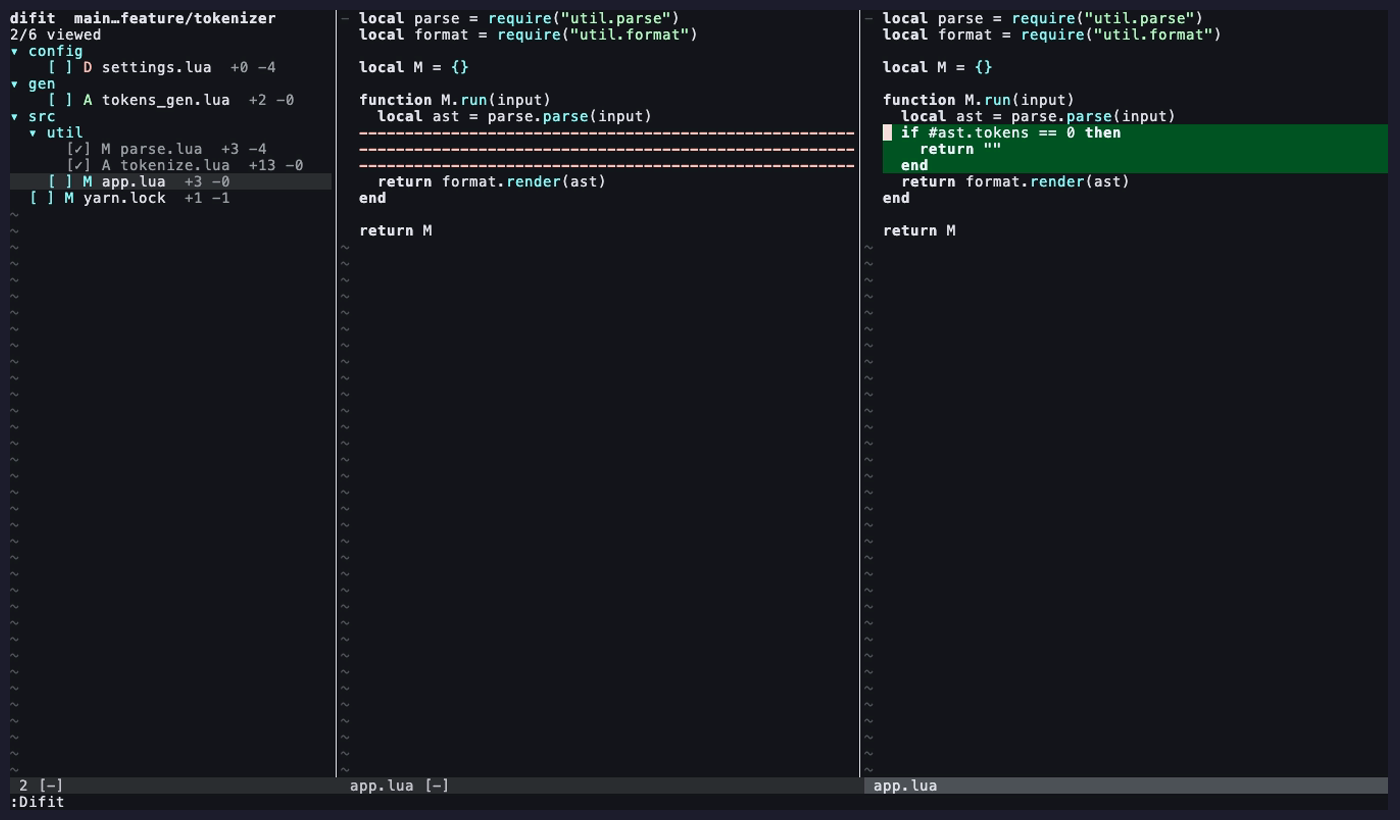
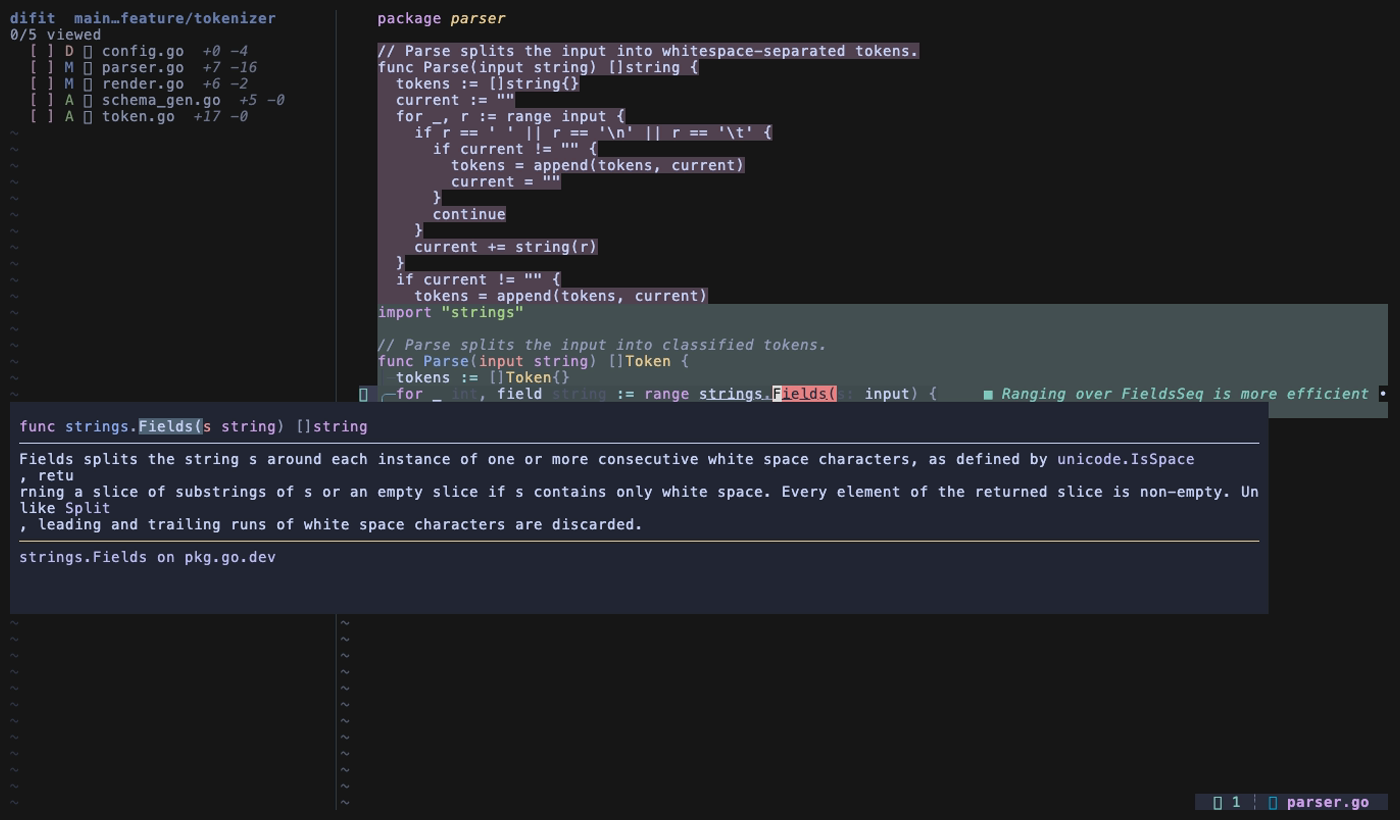
build(demo): record with the real Neovim config and show LSP in the diff
The tape now loads the user's own config (difit injected post-init via
+lua dofile, surviving lazy.nvim's rtp reset) against a Go demo repo,
so the recording proves gopls stays live inside the views: hover card,
inlay hints, and diagnostics over the unified overlay. Sweep uses a
direct group argument instead of the picker to stay independent of
whatever vim.ui.select UI the config installs.

diff --git a/README.md b/README.md
@@ -4,7 +4,7 @@ A [difit](https://github.com/yoshiko-pg/difit)-inspired diff viewer for Neovim: 
 file-tree diff viewer (like diffview.nvim) with per-file **viewed** marks that persist
 across viewer sessions for the same pull request.
 
-![difit.nvim demo — marking files viewed with auto-advance, switching diff modes, and sweeping lockfiles](assets/demo.gif)
+![difit.nvim demo — reviewing a Go branch: unified inline-overlay diff with a live gopls hover card, marking files viewed with auto-advance, and sweeping generated files](assets/demo.gif)
 
 ## Features
 